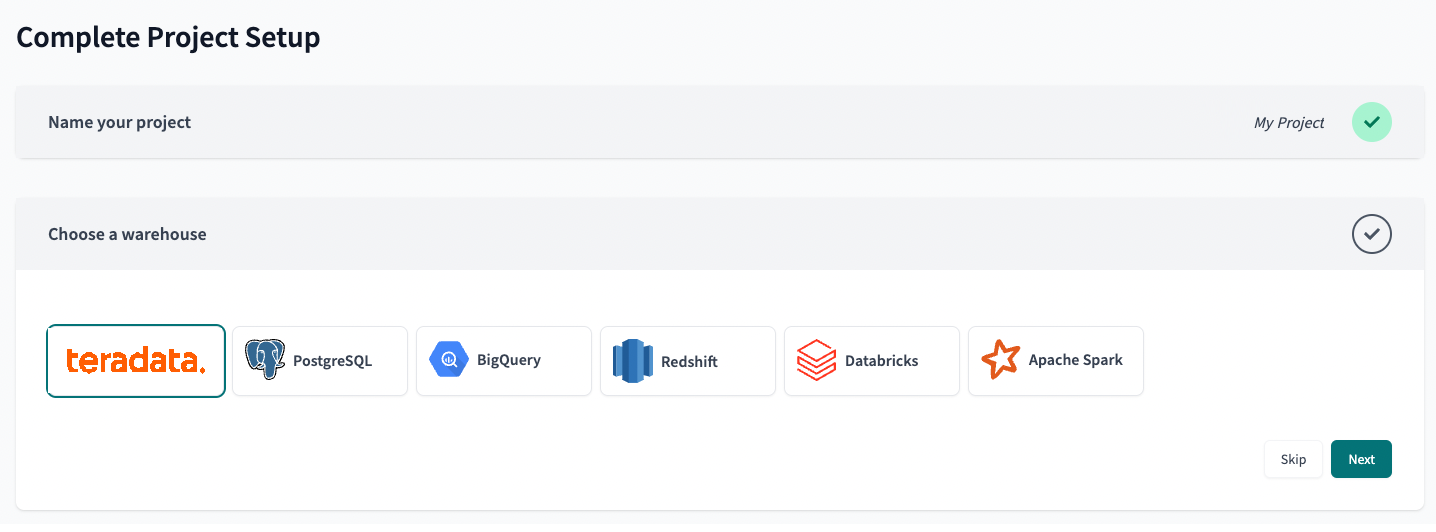
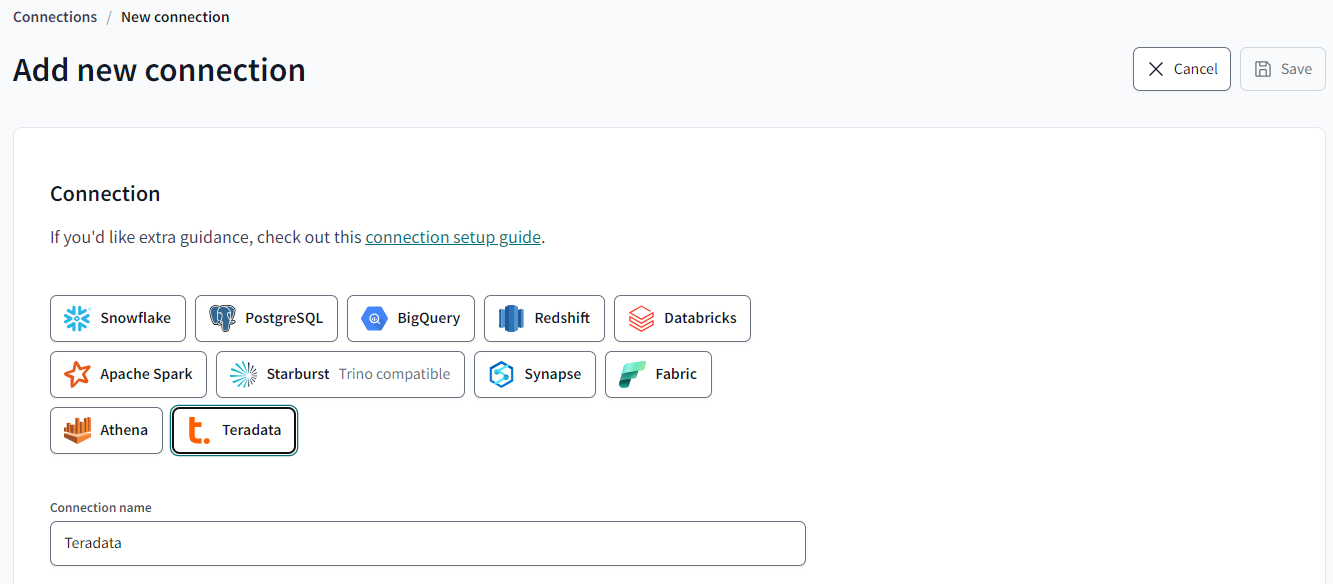
updated images

diff --git a/website/docs/guides/teradata-qs.md b/website/docs/guides/teradata-qs.md
@@ -25,6 +25,11 @@ In this quickstart guide, you'll learn how to use dbt Cloud with Teradata Vantag
 You can check out [dbt Fundamentals](https://learn.getdbt.com/courses/dbt-fundamentals) for free if you're interested in course learning with videos.
 :::
 
+## Create a new Teradata Clearscape instance
+
+- If you need a test instance of Vantage, you can provision one for free at https://clearscape.teradata.com
+- Here is the quickstart guide for creating a Clearscape enviroment [getting-started-with-csae](https://developers.teradata.com/quickstarts/get-access-to-vantage/clearscape-analytics-experience/getting-started-with-csae/)
+
 ### Prerequisites
 
 - You have a [dbt Cloud account](https://www.getdbt.com/signup/). 
@@ -32,6 +37,8 @@ You can check out [dbt Fundamentals](https://learn.getdbt.com/courses/dbt-fundam
 
 :::tip Test instance of Vantage
 If you need a test instance of Vantage, you can provision one for free at https://clearscape.teradata.com
+
+### Related content
 
 - Learn more with [dbt Learn courses](https://learn.getdbt.com)
 - [How we provision Teradata Clearscape Vantage instance](https://developers.teradata.com/quickstarts/get-access-to-vantage/clearscape-analytics-experience/getting-started-with-csae/)
@@ -55,7 +62,7 @@ If you need a test instance of Vantage, you can provision one for free at https:
 
 3. In the databases jaffle_shop and stripe, create three tables and load relevant data into them:
 
-   <Lightbox src="/img/teradata/dbt_cloud_teradata_create_tables.png.png" title="dbt Cloud - Teradata Creating Tables" />
+   <Lightbox src="/img/teradata/dbt_cloud_teradata_create_tables.png" title="dbt Cloud - Teradata Creating Tables" />
 
 ## Connect dbt cloud to Teradata
 
@@ -63,28 +70,22 @@ If you need a test instance of Vantage, you can provision one for free at https:
    
 2. Enter a project name and click Continue.
 
-3. For the warehouse, click Teradata then Next to set up your connection.
+3. In "Configure your development environment", click “Add new connection”
+
+4. Select "Teradata", fill in all the required details in the "Settings" section and test the connection.
 
    <Lightbox src="/img/teradata/dbt_cloud_teradata_setup_connection_start.png" title="dbt Cloud - Choose Teradata Connection" />
-
-4. Enter your Settings for Teradata with:
-
-    * **hostname** &mdash; Hostname of Teradata Database
-    * **username** &mdash; Username of Teradata Database
-    * **password** &mdash; Password of Teradata Database
     
-    <Lightbox src="/img/teradata/dbt_cloud_teradata_account_settings.png" title="dbt Cloud - Teradata Account Settings" />
+   <Lightbox src="/img/teradata/dbt_cloud_teradata_account_settings.png" title="dbt Cloud - Teradata Account Settings" />
 
 5. Enter your **Development Credentials** for Teradata with: 
     * **Username** &mdash; The username of Teradata database.
     * **Password** &mdash; The password of Teradata database.
     * **Schema** &mdash; The default database to use
-    * **Target name** &mdash; Leave as the default.
-    * **Threads** &mdash; Leave as 4. This is the number of simultaneous connects that dbt Cloud will make to build models concurrently.
     
-    <Lightbox src="/img/snowflake_tutorial/dbt_cloud_teradata_development_credentials.png" title="dbt Cloud - Teradata Development Credentials" />
+    <Lightbox src="/img/teradata/dbt_cloud_teradata_development_credentials.png" title="dbt Cloud - Teradata Development Credentials" />
 
-6. Click Test Connection. This verifies that dbt Cloud can access your Teradata database.
+6. Click Test Connection. This verifies that dbt Cloud can access your Teradata Vantage instance.
 7. If the connection test succeeds, click Next. If it fails, you may need to check your Teradata settings and credentials.
 
 ## Set up a dbt Cloud managed repository 
